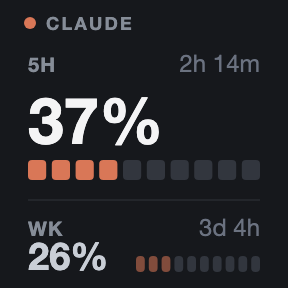
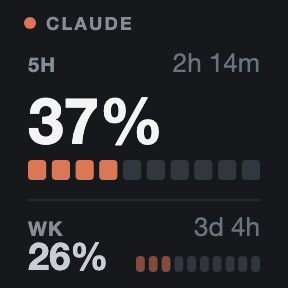
feat(c_ai_usage): reset 남은 시간 +1px
네 레이아웃 전부 — 키 도넛 13→14, 키 도넛 조역·다이얼 도넛·다이얼 바 11→12,
키 바 12→13. 키 바 조역 행은 남은 시간과 노트를 같은 size 로 그리므로
`Weekly only`/`주간만 제공` 도 같이 커졌다(다이얼 바 노트는 분기가 있어 9px 유지).

픽스처에 없는 최악 폭(`23h 59m`, 7글자)까지 문자열을 바꿔 ko/en 양쪽을 실제 기기
픽셀(키 120×120 · 다이얼 200×100)로 래스터라이즈해 확인했다 — 키 도넛은 y=94 에서
안쪽 링까지 ≈2px, 하단 줄은 `100%` 와 4px 간격, 다이얼 바는 x≈57 에서 끝나
세그먼트 미터(x=62) 앞에서 멈춘다.

렌더러가 바뀌면 낡아도 신호가 없으므로 docs/*.png 4장을 같이 다시 굽는다.

Changed region(s): [[0.5938, 0.1875, 0.9062, 0.25], [0.6562, 0.75, 0.9062, 0.8438]]

diff --git a/c_ai_usage/src/render/gauge.ts b/c_ai_usage/src/render/gauge.ts
@@ -279,8 +279,8 @@ function keyDonut(p: Slot, s: Slot, c: Ctx): string {
       weight: 700,
       anchor: 'middle',
     }),
-    // y=94 는 13px 이 링 안에 들어가는 가장 아래다 — 더 내리면 원이 좁아져 7글자가 링에 닿는다.
-    text(72, 94, fmt(p.leftMs), { size: 13, fill: MUTED, anchor: 'middle' }),
+    // y=94 는 14px 이 링 안에 들어가는 가장 아래다 — 더 내리면 원이 좁아져 7글자가 링에 닿는다.
+    text(72, 94, fmt(p.leftMs), { size: 14, fill: MUTED, anchor: 'middle' }),
     text(14, 138, s.code, { size: 10, fill: MUTED, spacing: 0.6 }),
     s.v === null
       ? text(130, 138, s.note ?? '—', {
@@ -290,7 +290,7 @@ function keyDonut(p: Slot, s: Slot, c: Ctx): string {
           anchor: 'end',
         })
       : text(40, 139, pct(s.v), { size: 15, fill: subColor(s.v, c), weight: 700 }) +
-        text(130, 138, fmt(s.leftMs), { size: 11, fill: DIM, anchor: 'end' }),
+        text(130, 138, fmt(s.leftMs), { size: 12, fill: DIM, anchor: 'end' }),
   ].join('');
 }
 
@@ -324,7 +324,7 @@ function donutCell(cx: number, w: Slot, primary: boolean, c: Ctx): string {
       spacing: 0.6,
     }),
     text(cx, 98, w.v === null && w.note !== null ? w.note : fmt(w.leftMs), {
-      size: 11,
+      size: 12,
       fill: DIM,
       anchor: 'middle',
     }),
@@ -339,14 +339,14 @@ function donutCell(cx: number, w: Slot, primary: boolean, c: Ctx): string {
  */
 function keyBar(p: Slot, s: Slot, c: Ctx): string {
   return [
-    // 12px 로 커진 남은 시간이 x=78 까지 밀려온다 — 라벨 예산이 그만큼 줄었다.
+    // 13px 로 커진 남은 시간이 x=74 까지 밀려온다 — 라벨 예산 60px 가 거기서 끝난다.
     text(14, 36, clampLabel(p.label, 60, 10, 0.6), {
       size: 10,
       fill: MUTED,
       weight: 600,
       spacing: 0.6,
     }),
-    text(130, 36, fmt(p.leftMs), { size: 12, fill: DIM, anchor: 'end' }),
+    text(130, 36, fmt(p.leftMs), { size: 13, fill: DIM, anchor: 'end' }),
     text(14, 72, pct(p.v), { size: 32, fill: numColor(p.v, c), weight: 700 }),
     segments(14, 80, 116, 10, p.v, gaugeColor(p.v, c)),
     // 1px 채움 rect 다. `<line>` 이 더 자연스럽지만 이 래스터라이저에서 확인된 적이 없다 —
@@ -355,7 +355,7 @@ function keyBar(p: Slot, s: Slot, c: Ctx): string {
     // 조역 행은 좁아 서버 라벨이 아니라 짧은 코드를 쓴다. 스코프명은 다이얼에서 보여준다.
     text(14, 118, s.code, { size: 10, fill: MUTED, weight: 600, spacing: 0.6 }),
     text(130, 118, s.v === null && s.note !== null ? s.note : fmt(s.leftMs), {
-      size: 12,
+      size: 13,
       fill: DIM,
       anchor: 'end',
     }),
@@ -374,7 +374,7 @@ function dialBar(p: Slot, s: Slot, c: Ctx): string {
       weight: 600,
       spacing: 0.6,
     }),
-    text(10, 54, fmt(p.leftMs), { size: 11, fill: DIM }),
+    text(10, 54, fmt(p.leftMs), { size: 12, fill: DIM }),
     segments(62, 34, 66, 15, p.v, gaugeColor(p.v, c)),
     text(190, 49, pct(p.v), { size: 21, fill: numColor(p.v, c), weight: 700, anchor: 'end' }),
     text(10, 76, clampLabel(s.label, 48, 10, 0.6), {
@@ -383,8 +383,8 @@ function dialBar(p: Slot, s: Slot, c: Ctx): string {
       weight: 600,
       spacing: 0.6,
     }),
-    // 노트만 9px 로 남긴다 — 문장이라 11px 로 키우면 x=62 의 세그먼트 미터 아래로 흘러든다.
-    text(10, 91, note ?? fmt(s.leftMs), { size: note === null ? 11 : 9, fill: DIM }),
+    // 노트만 9px 로 남긴다 — 문장이라 12px 로 키우면 x=62 의 세그먼트 미터 아래로 흘러든다.
+    text(10, 91, note ?? fmt(s.leftMs), { size: note === null ? 12 : 9, fill: DIM }),
     segments(62, 72, 66, 10, s.v, softColor(s.v, c)),
     text(190, 87, pct(s.v), { size: 17, fill: subColor(s.v, c), weight: 700, anchor: 'end' }),
   ].join('');
